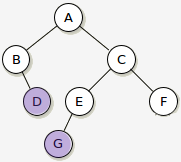
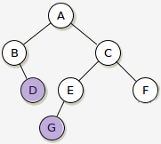
A visualization added to the Advanced Recur Tutor and few changes to the book

diff --git a/AV/RecurTutor2/IneffBinaryTreeRangeCON.js b/AV/RecurTutor2/IneffBinaryTreeRangeCON.js
@@ -1,0 +1,100 @@
+/*global ODSA */
+"use strict";
+$(document).ready(function () {
+  var av = new JSAV("IneffBinaryTreeRangeCON");
+ 
+  
+  av.umsg("Suppose that you want to write a recursive function named range that, given a root to a binary search tree (BST) and key value min, and a key value max, returns the number of nodes having key values that fall between min and max. Function range should visit as few nodes in the BST as possible. One possible solution is:");
+   
+  var pseudo = av.code({url: "../../../SourceCode/Java/RecurTutor2/RecIneffRng.java",
+                       lineNumbers: false,top:10 , left: 100});
+  av.displayInit();
+  av.umsg("This solution has neither compilation errors nor logical errors. It will return the correct number of nodes in the given range. However, the solution did not benefit from the BST property to minimize the nodes visits.");
+   
+  av.step();
+   // Setup the tree
+  var btTop = 380;
+  var btLeft = 305;
+  var bt = av.ds.binarytree({nodegap: 15, top: btTop, left: btLeft});
+  bt.root('20');
+  var rt = bt.root();
+  rt.left('10');
+  rt.left().left('5');
+  rt.left().right('15');
+ 
+  
+  rt.right('40');
+  rt.right().left('35');
+  rt.right().right('65');
+
+  bt.layout();
+  var rt1 = av.pointer("rt", bt.root(), {anchor: "left top", top: -10});
+  
+  var label1 = av.label("range(rt, 10, 14)", {left: 50, top: 370}); 
+  av.umsg(" Suppose that the function call is range(rt, 10, 14). So we are looking for the values between 10 and 14. Let's trace the code on the shown tree:");
+  pseudo.highlight(3);
+  rt1.target(rt, {anchor: "left top"});
+  av.step();
+  
+  av.umsg("Since the root is not null we proceed to check on the range.")
+  pseudo.unhighlight(3);
+  pseudo.highlight(7);
+  av.step();
+  
+  av.umsg("Since the min value is less than the root value and the max value is not more than  the root value, so the first recursive call will be executed.");
+ 
+  pseudo.unhighlight(7);
+  pseudo.highlight(10);
+  rt1.target(rt.left(), {anchor: "left top"}); 
+  av.step();
+  
+  av.umsg("After the first recursive call is done with counting the values in range in the left sub-tree, the second recursive call will go to count on the right subtree.");
+  pseudo.unhighlight(10);
+  pseudo.highlight(11);
+  rt1.target(rt.right(), {anchor: "right top"}); 
+  av.step();
+   
+  av.umsg("As we see in this example, the code is not effecient so it did not avoid vsiting un-needed nodes. The code will visit the whole right sub-tree while it is not needed.");
+  var label3 = av.label("The range function should be written in a way that avoid traversing this side for the given range.", {left: 550, top: 420}); 
+  var el1= av.g.ellipse(442, 488, 50 , 50).css({fill: "red", opacity: 0.4});
+  av.step();
+  
+  //================================
+  pseudo.unhighlight(11);
+  label3.hide();
+  el1.hide();
+  av.umsg("Another example, suppose that the function call is range(rt, 38, 68). So we are looking for the values between 38 and 68. Let's trace the code on the shown tree:");
+  label1.hide();
+  var label2 = av.label("range(rt, 38, 68)", {left: 50, top: 370}); 
+  pseudo.highlight(3);
+  rt1.target(rt, {anchor: "left top"});
+  av.step();
+  
+  av.umsg("Since the root is not null we proceed to check on the range.")
+  pseudo.unhighlight(3);
+  pseudo.highlight(7);
+  av.step();
+  
+  av.umsg("Since the min value is not less than the root value and the max value is more than  the root value, so the first recursive call will be executed. ");
+ 
+  pseudo.unhighlight(7);
+  pseudo.highlight(10);
+  rt1.target(rt.left(), {anchor: "left top"}); 
+ 
+  av.umsg("As we see in this example, the code is not effecient so it did not avoid vsiting un-needed nodes. The code will visit the whole right sub-tree while it is not needed. The range function should be written in a way that avoid traversing this side for the given range.");
+  var el2= av.g.ellipse(342, 488, 50 , 50).css({fill: "red", opacity: 0.4});
+  av.step();
+  
+  av.umsg("So the recursive calls should be controlled by if-else statement to avoid redundant nodes visits. The following code shows how to convert this code to an effecient one that visit the minimal number of nodes.");
+  
+  pseudo.hide();
+  var pseudo2 = av.code({url: "../../../SourceCode/Java/RecurTutor2/RecEffRng.java",
+                       lineNumbers: false,top:10 , left: 100});
+  el2.hide();
+  label2.hide();
+  rt1.hide();
+  pseudo2.highlight(10);
+  pseudo2.highlight(13);
+  
+  av.recorded();
+});

diff --git a/AV/RecurTutor2/AdvancedRecurTutor.css b/AV/RecurTutor2/AdvancedRecurTutor.css
@@ -7,8 +7,9 @@
 }
 
 #SumBinaryTreeCON .jsavcanvas {
- height: 250px;
+ height: 150px;
 }
+
 
 #SumBinaryTreeCON .jsavlabel { 
 width: 100px;
@@ -17,3 +18,9 @@ color: blue;
 background-image: url(Icons/person.png);
 background-size: cover;
 }
+
+#IneffBinaryTreeRangeCON .jsavcanvas {
+ height: 300px;
+}
+
+

diff --git a/SourceCode/Java/RecurTutor2/RecEffRng.java b/SourceCode/Java/RecurTutor2/RecEffRng.java
@@ -1,0 +1,17 @@
+ int range(BSTNode root , int min , int max)
+{
+    if(root == null)
+      return 0;
+       
+    int result = 0;
+    if (min<= (Integer)root.element() && max>= (Integer)root.element())
+      result= result + 1;
+       
+    if(min<= (Integer)root.element())
+      result+= range(root.left(), min, max); 
+    
+    if(max > (Integer)root.element())
+      result+=  range(root.right(), min , max);
+    
+    return result;
+}

diff --git a/SourceCode/Java/RecurTutor2/RecIneffRng.java b/SourceCode/Java/RecurTutor2/RecIneffRng.java
@@ -1,0 +1,14 @@
+ int range(BSTNode root , int min , int max)
+{
+    if(root == null)
+       return 0;
+       
+    int result = 0;
+    if (min<= (Integer)root.element() && max>= (Integer)root.element())
+       result= result + 1;
+            
+    result+= range(root.left(), min, max); 
+    result+=  range(root.right(), min , max);
+    
+    return result;
+}

diff --git a/RST/en/RecurTutor2/BinaryTreeTrvprob.rst b/RST/en/RecurTutor2/BinaryTreeTrvprob.rst
@@ -8,6 +8,7 @@
    :satisfies: binary tree common traversal problems
    :topic: Binary Trees Common Traversal Problems
 
+.. odsalink:: AV/RecurTutor2/AdvancedRecurTutor.css
 
 Binary Tree Traversal Common Problems
 =====================================
@@ -44,10 +45,13 @@ One of the common mistakes some people does is considering that the base case
 action will be executed only after the recursive calls are executed. 
 This is not always the case because you may have your input as an empty tree 
 from the very begining and in that case no recursive calls will be executed 
-before the base case action.
+before the base case action. Make sure when you write a program that traverse a binary tree
+to check in the base case if the root of the binary is null (In that case the given tree is empty).
 
-The base case action formulation depends on the problem we have. 
+The action that the base case will execute is dependable on the given problem. 
 For example, if it is required to count the nodes then the base case action will be returning 0. 
+While, if it is required to check on the existence of a value or not then the base case action in this
+case will return false becuause the given binary tree is empty.
 
 
 Formulate the recursive case and its action
@@ -58,9 +62,20 @@ Admit that it will do it correctly. So, when your recursive case action
 is to  visit recursively the right and left children this means that every node will do that. 
 You don't need to worry about making sure that every node will do it.
 
+Make sure that when you design your recursive case(s) that they are not doing redundant nodes visit or skipping nodes. This can be done by tracing your code on a binary tree and marking the nodes that you have visited after each recursive call.
+
+The following visulization shows an example of a code that does redundant visit to solve the problem
+of getting the number of nodes falling in a certain given range in a binary search tree (BST).
+The code in the visulization works correctly but it is NOT an effecient code because
+it does redundant/unnecessary nodes visits. 
+
+.. inlineav:: IneffBinaryTreeRangeCON ss
+   :output: show
+
+
 .. topic:: Example
 
-   Recall the previous example of counting the number of nodes in a binary tree.
+   Another example, recall the problem of counting the number of nodes in a binary tree.
    
    The following solution is correct but ineffecient as it does redundant checks on the left and the right child of each visited node::
    
@@ -95,13 +110,9 @@ You don't need to worry about making sure that every node will do it.
      }
 
 
-Make sure that when you design your recursive case(s) that they are not doing redundant nodes visit or skipping nodes. This can be done by tracing your code on a binary tree and marking the nodes that you have visited after each recursive call.
-
-.. Todo:: Visulization for an ineffficent code that does redundant visits.
-
-.. Todo:: Visulization for a tracing of an ineffficent code that skips necessary nodes visits.
-
 
 Learning those skills requires a lot of practice to make sure that you are not only getting
 the correct answer but also doing the solution effeciently without visiting more or less nodes
 than required.
+
+.. odsascript:: AV/RecurTutor2/IneffBinaryTreeRangeCON.js
